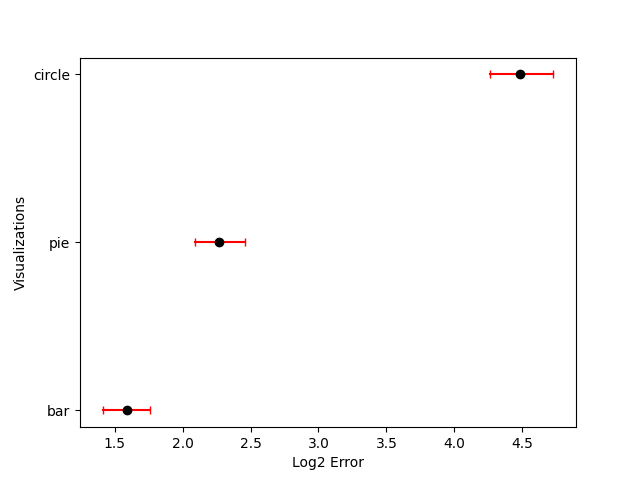
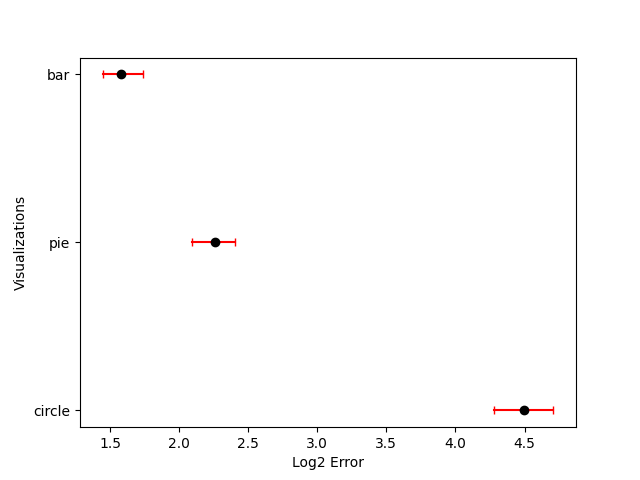
Fixed the order of ranking for the charts

diff --git a/confidenceInterval.py b/confidenceInterval.py
@@ -19,11 +19,11 @@ bootstrappedErrorBar = createBootStraps(errorBar,100)
 bootstrappedErrorCircle = createBootStraps(errorCircle,100)
 bootstrappedErrorPie = createBootStraps(errorPie,100)
 
-intervals = [np.percentile(bootstrappedErrorBar,[2.5,97.5]),
+intervals = [np.percentile(bootstrappedErrorCircle,[2.5,97.5]),
              np.percentile(bootstrappedErrorPie,[2.5,97.5]),                                              
-             np.percentile(bootstrappedErrorCircle,[2.5,97.5])] 
-means = [np.mean(bootstrappedErrorBar),np.mean(bootstrappedErrorPie),np.mean(bootstrappedErrorCircle)]
-vis = ['bar','pie','circle']
+             np.percentile(bootstrappedErrorBar,[2.5,97.5])] 
+means = [np.mean(bootstrappedErrorCircle),np.mean(bootstrappedErrorPie),np.mean(bootstrappedErrorBar)]
+vis = ['circle','pie','bar']
 
 for i in range(len(vis)):
     plt.plot(tuple(intervals[i]),(i+1,i+1),'r|-') # Plotting the 95% Bootstrap Confidence Interval
